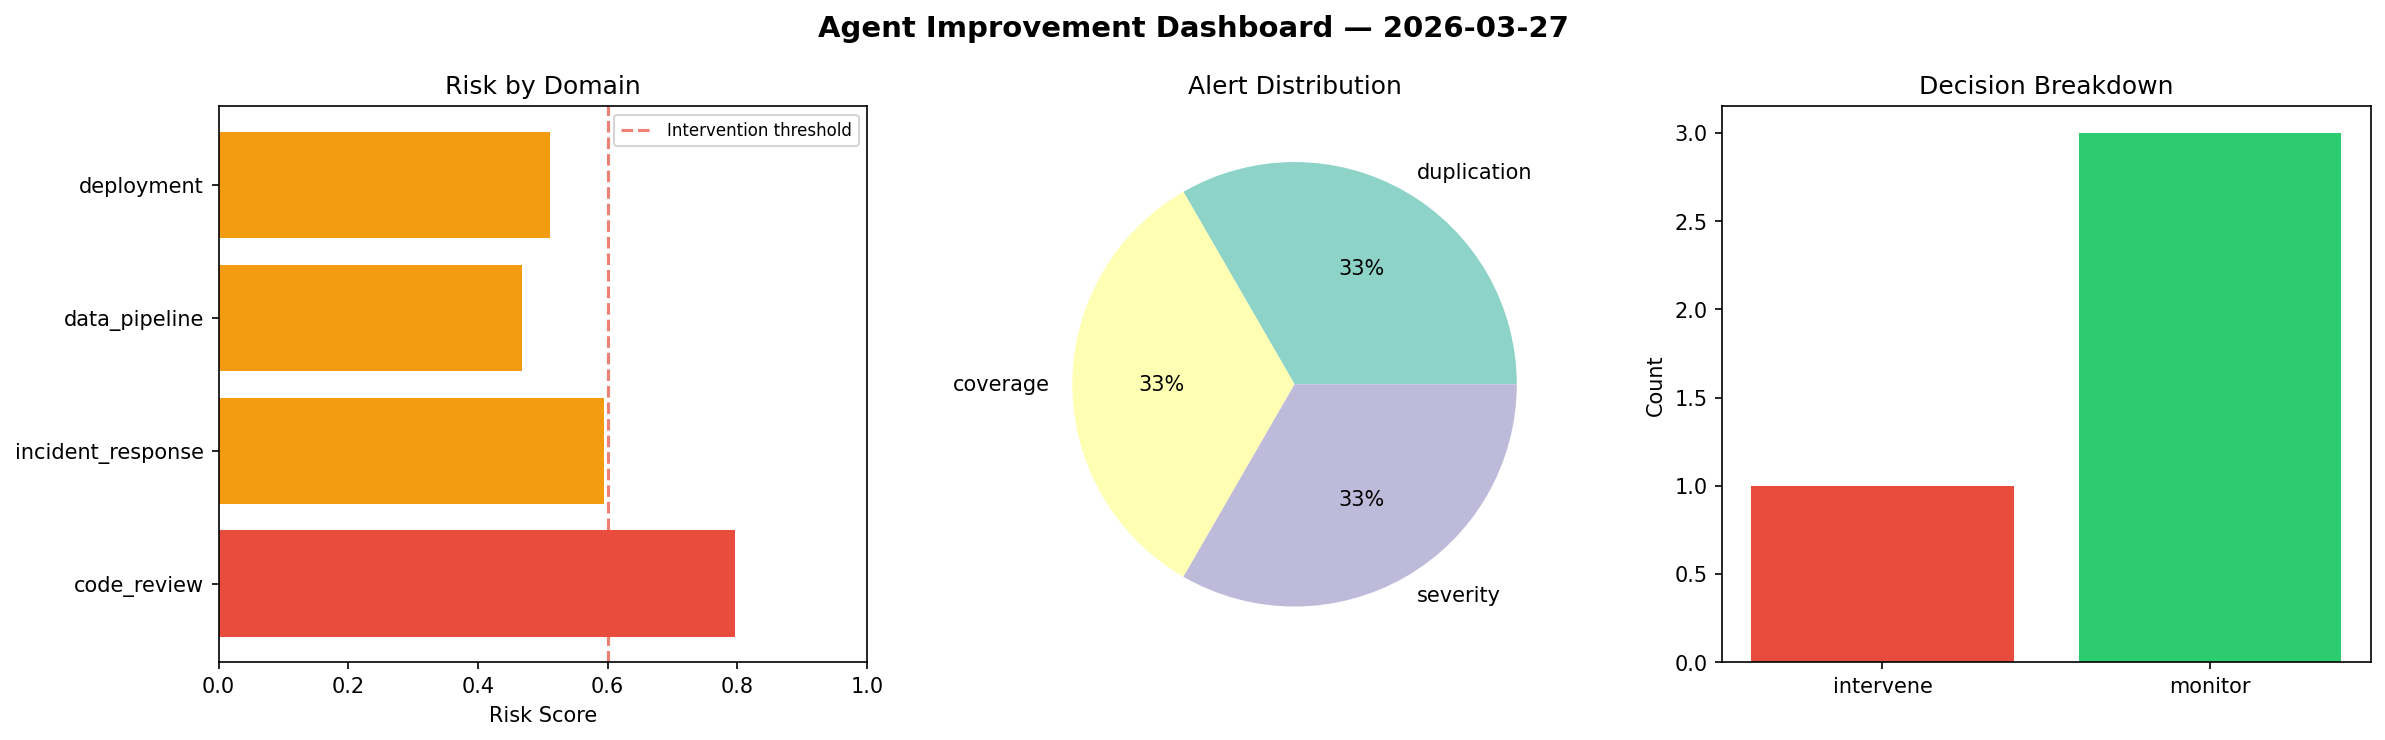
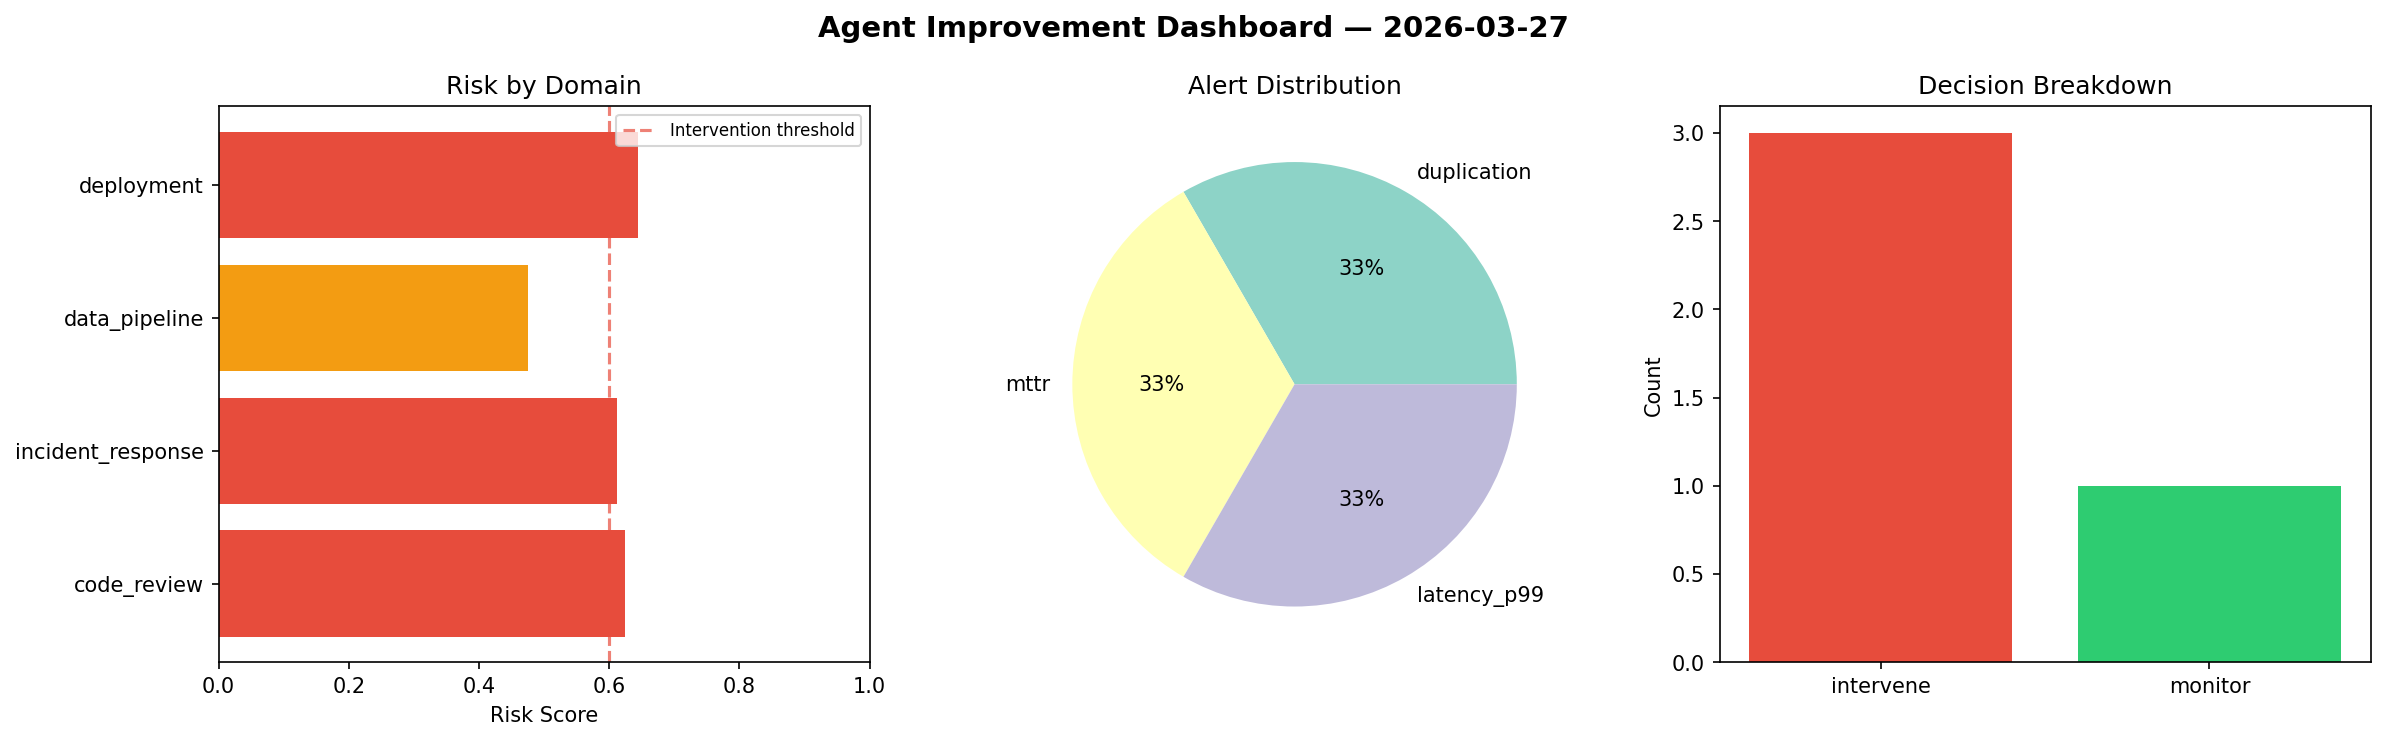
agent-improvement: daily cycle 2026-03-27T20:54

diff --git a/logs/2026-03-27.md b/logs/2026-03-27.md
@@ -1,6 +1,6 @@
 # Agent Improvement Report — 2026-03-27
 
-**Cycle ID:** `c96fbc3e` | **Avg Risk:** 0.5921 | **Interventions:** 1/4
+**Cycle ID:** `bb82fc0c` | **Avg Risk:** 0.5889 | **Interventions:** 3/4
 
 ![Dashboard](2026-03-27_dashboard.png)
 
@@ -10,18 +10,18 @@
 
 | Domain | Risk Score | Decision | Alerts |
 |--------|-----------|----------|--------|
-| code_review | 0.7956 | intervene | duplication, coverage |
-| incident_response | 0.5941 | monitor | severity |
-| data_pipeline | 0.4679 | monitor | none |
-| deployment | 0.511 | monitor | none |
+| code_review | 0.6242 | intervene | duplication |
+| incident_response | 0.6123 | intervene | mttr |
+| data_pipeline | 0.4755 | monitor | none |
+| deployment | 0.6437 | intervene | latency_p99 |
 
 ## Delta vs Yesterday
 
 | Domain | Today | Yesterday | Change |
 |--------|-------|-----------|--------|
-| code_review | 0.7956 | 0.6145 | 📈 29.5% |
-| incident_response | 0.5941 | 0.4394 | 📈 35.2% |
-| data_pipeline | 0.4679 | 0.5357 | 📉 -12.7% |
-| deployment | 0.511 | 0.7789 | 📉 -34.4% |
+| code_review | 0.6242 | 0.6145 | 📈 1.6% |
+| incident_response | 0.6123 | 0.4394 | 📈 39.3% |
+| data_pipeline | 0.4755 | 0.5357 | 📉 -11.2% |
+| deployment | 0.6437 | 0.7789 | 📉 -17.4% |
 
-**Refinement:** `{'adjustment': 'maintain', 'trend': 'improving', 'window': 4}`
+**Refinement:** `{'adjustment': 'tighten_thresholds', 'trend': 'degrading', 'window': 4}`
